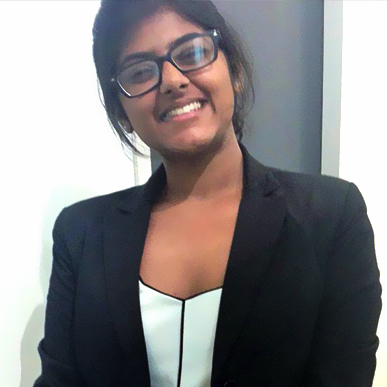
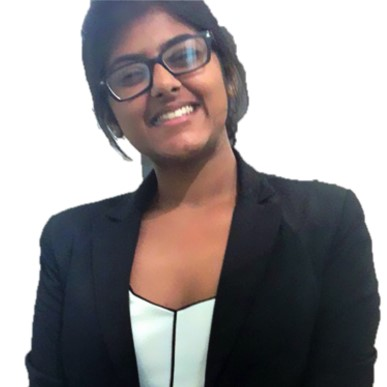
added speaker info

Changed region(s): [[0.031, 0.0, 1.0, 1.0], [0.5271, 0.4031, 0.5581, 0.4341]]

diff --git a/index.html b/index.html
@@ -154,7 +154,7 @@
                 <div class="speaker-card col-sm-12 col-lg-3" id="guy1">
                     <img class="speaker-profile-image img-fluid" src="./img/avatars/speakers/vava.jpg">
                     <h2 class="speaker-name">Vava Suresh</h2>
-                    <h3 class="speaker-description"></h3>
+                    <h3 class="speaker-description">Snake Expert, Wildlife Conservationist</h3>
                     <p class="speaker-about">
                        
 					
@@ -164,7 +164,7 @@
                 <div class="speaker-card col-sm-12 col-lg-3" id="guy1">
                     <img class="speaker-profile-image img-fluid" src="./img/avatars/speakers/piyush.jpg">
                     <h2 class="speaker-name">Piyush Shinde</h2>
-                    <h3 class="speaker-description"></h3>
+                    <h3 class="speaker-description">Strategist, Innovator</h3>
                     <p class="speaker-about">
                        
 					
@@ -173,7 +173,15 @@
                 <div class="speaker-card col-sm-12 col-lg-3" id="guy1">
                     <img class="speaker-profile-image img-fluid" src="./img/avatars/speakers/mani.jpg">
                     <h2 class="speaker-name">Mani Karthik</h2>
-                    <h3 class="speaker-description"></h3>
+                    <h3 class="speaker-description">Blogger, Mentor</h3>
+                    <p class="speaker-about">
+                        
+					</p>
+                </div>
+                <div class="speaker-card col-sm-12 col-lg-3" id="guy1">
+                    <img class="speaker-profile-image img-fluid" src="./img/avatars/speakers/anwesha.jpg">
+                    <h2 class="speaker-name">Anwesha Das</h2>
+                    <h3 class="speaker-description">Researcher</h3>
                     <p class="speaker-about">
                         
 					</p>
@@ -216,7 +224,7 @@
                 <div class="speaker-card-carousel " id="guy1">
                     <img class="speaker-profile-image img-fluid" src="./img/avatars/speakers/vava.jpg">
                     <h2 class="speaker-name">Vava Suresh</h2>
-                    <h3 class="speaker-description"></h3>
+                    <h3 class="speaker-description">Snake Expert, Wildlife Conservationist</h3>
                     <p class="speaker-about">
                        
                     </p>
@@ -224,7 +232,7 @@
                 <div class="speaker-card-carousel" id="guy1">
                     <img class="speaker-profile-image img-fluid" src="./img/avatars/speakers/piyush.jpg">
                     <h2 class="speaker-name">Piyush Shinde</h2>
-                    <h3 class="speaker-description"></h3>
+                    <h3 class="speaker-description">Strategist, Innovator</h3>
                     <p class="speaker-about">
 
                     </p>
@@ -232,11 +240,20 @@
                 <div class="speaker-card-carousel" id="guy1">
                     <img class="speaker-profile-image img-fluid" src="./img/avatars/speakers/mani.jpg">
                     <h2 class="speaker-name">Mani Karthik</h2>
-                    <h3 class="speaker-description"></h3>
+                    <h3 class="speaker-description">Blogger, Mentor</h3>
                     <p class="speaker-about">
                        
                     </p>
                 </div>
+                <div class="speaker-card-carousel" id="guy1">
+                    <img class="speaker-profile-image img-fluid" src="./img/avatars/speakers/mani.jpg">
+                    <h2 class="speaker-name">Anwesha Das</h2>
+                    <h3 class="speaker-description">Researcher</h3>
+                    <p class="speaker-about">
+                       
+                    </p>
+                </div>
+
 
                <!--  <div class="speaker-card-carousel" id="guy1">
                     <img class="speaker-profile-image img-fluid" src="./img/avatars/speakers/alphons.jpg">
